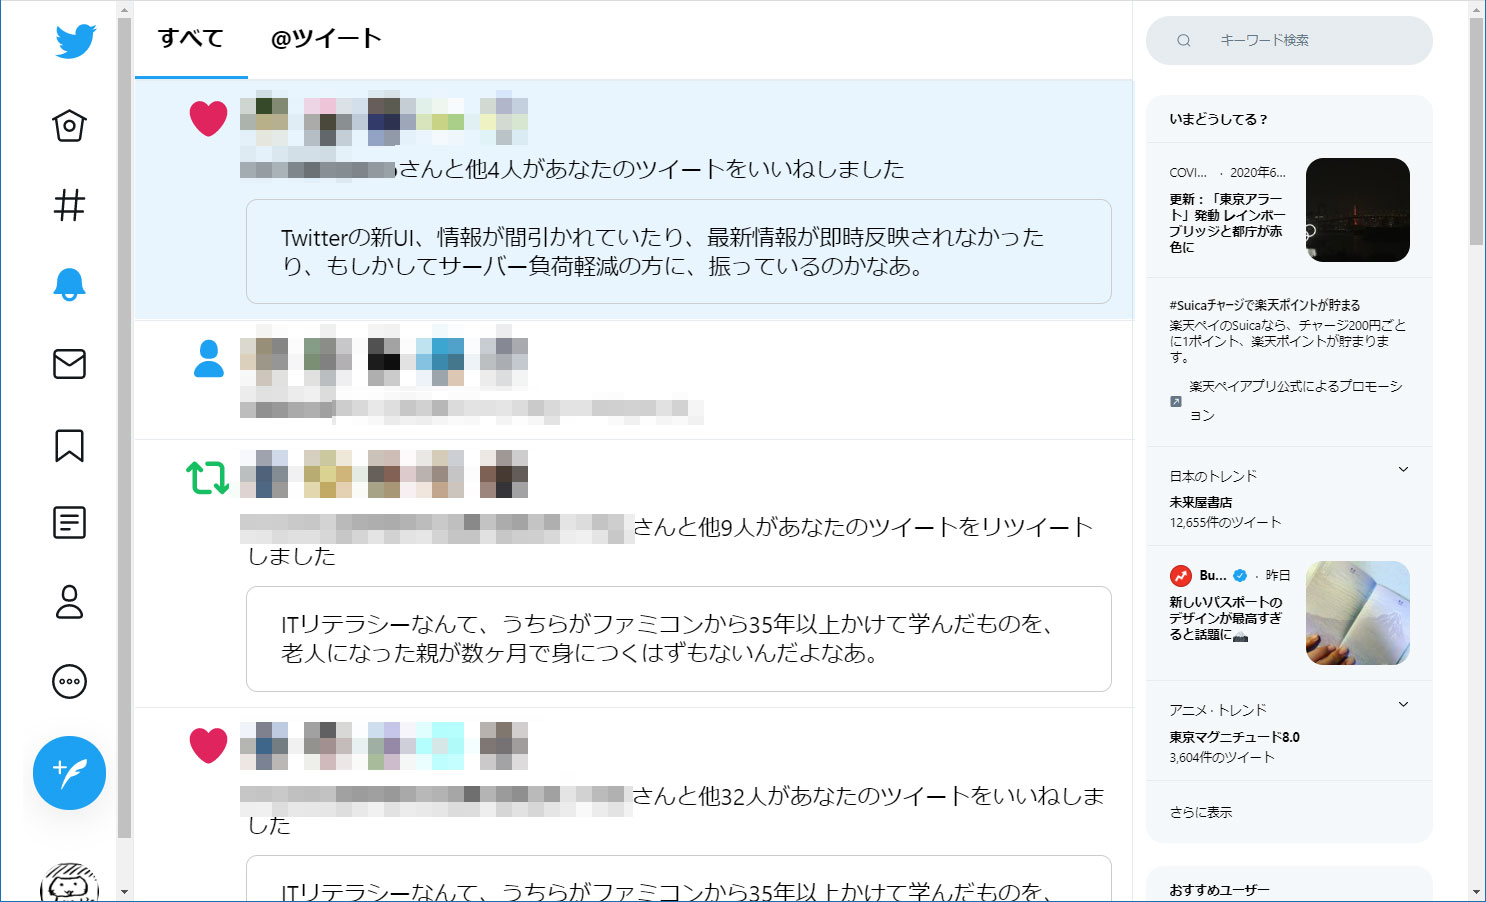
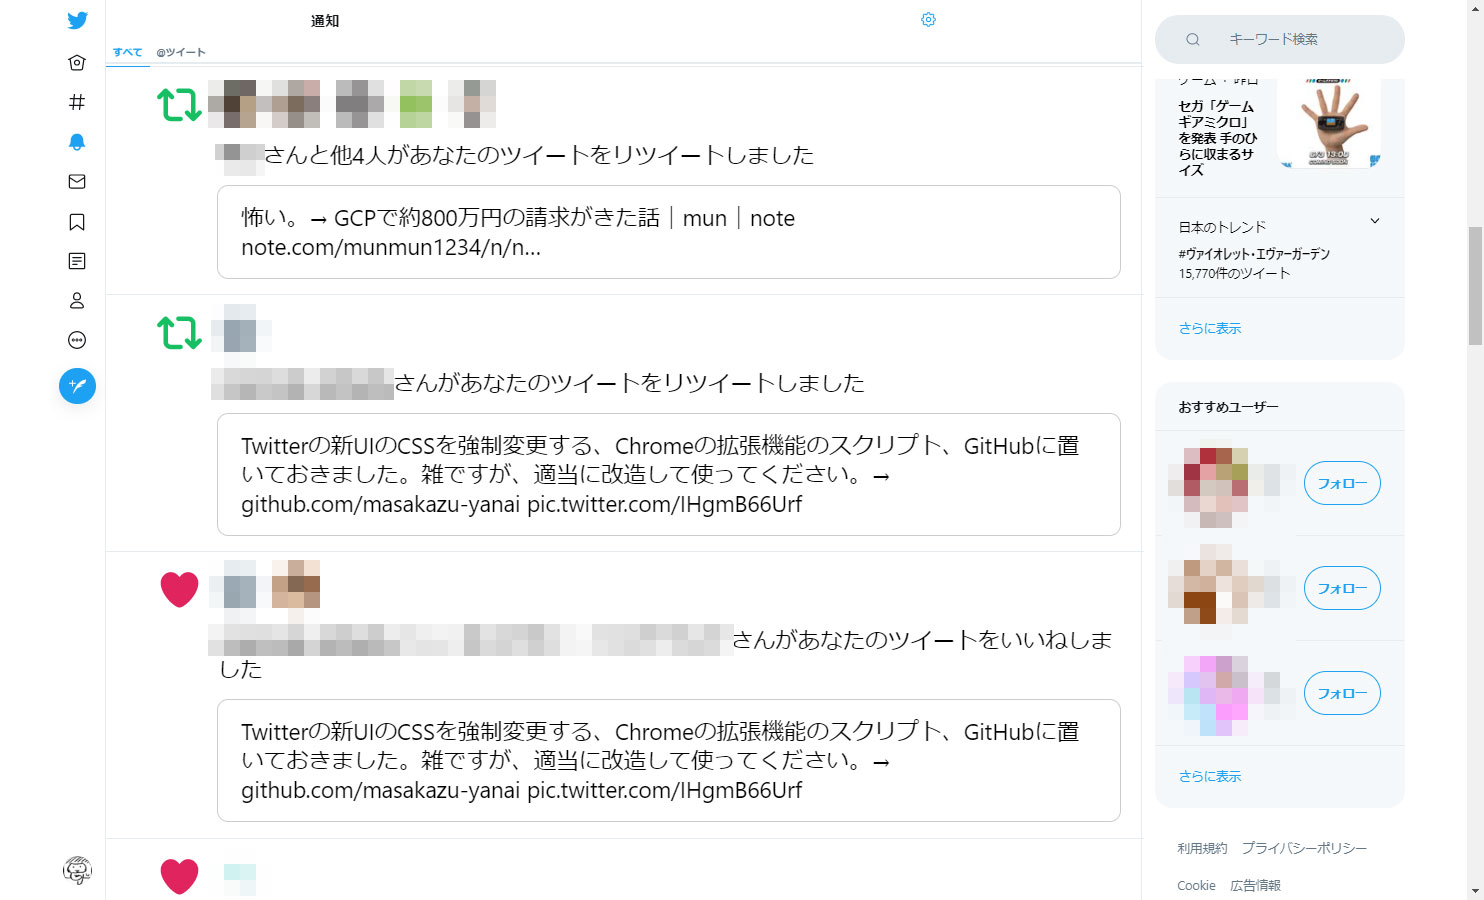
1.0.1
In the 'Notification' page, click and open url.

diff --git a/twitter/script.js b/twitter/script.js
@@ -1,5 +1,5 @@
 {
-	const fncCss = (sel, css) => {
+	const setCss = (sel, css) => {
 		document.querySelectorAll(sel).forEach(ele => {
 			if (ele.style.cssText !== '') { return }	
 			ele.style.cssText = css;
@@ -10,18 +10,40 @@
 		const url = '' + location.href;
 
 		if (url.match(RegExp('^https://twitter.com/notifications'))) {
-			fncCss(
+			// Change View.
+			setCss(
 				'.css-1dbjc4n.r-my5ep6.r-qklmqi.r-1adg3ll .r-qvutc0',
 				'color: #000 !important'
 			);
-			fncCss(
+			setCss(
 				'.css-1dbjc4n.r-my5ep6.r-qklmqi.r-1adg3ll .r-1s2bzr4',
 				'border: solid 1px #ccc !important;' +
 				'border-radius: 0.5em !important;' +
 				'padding: 0.75em 1em !important;'
 			);
+		} else
+		if (url.match(RegExp('^https://twitter.com/i/timeline'))) {
+			// Click TL item. -> Open new tab.
+			const ele = document.querySelector('time');
+			try {
+				ele.parentNode;
+			} catch(e) { return }
+			const eleP = ele.parentNode;
+			const url = 'https://twitter.com' + eleP.getAttribute('href');
+			history.back();
+
+			// Window Open
+			setTimeout(() => {
+				// Not Active (Background)
+				//const a = document.createElement('a');
+				//a.setAttribute('href', url);
+				//a.dispatchEvent(new MouseEvent('click', {ctrlKey: true}));
+
+				// Active
+				window.open(url, '_blank');
+			}, 500);
 		}
-	}, 500);
+	}, 200);
 }
 
 

diff --git a/twitter/style.css b/twitter/style.css
@@ -1,11 +1,14 @@
 /* Upper Navigation */
 .css-1dbjc4n.r-1loqt21.r-136ojw6 {
-	display: none;
+	zoom: 0.5;	/* Top */
+}
+.css-1dbjc4n.r-1awozwy.r-my5ep6.r-rull8r.r-qklmqi.r-18u37iz.r-1ninfw3 {
+	zoom: 0.3;	/* Second(Tab) */
 }
 
 /* Right Column */
 .r-1hycxz {
-	width: 230px !important;	/* -120px; */
+	width: 200px !important;	/* -150px; */
 }
 .r-1hycxz a,
 .r-1hycxz span,
@@ -16,8 +19,8 @@
 
 /* Center Column */
 .r-1ye8kvj {
-	width: 800px !important;	/* +200px; */
-	max-width: 800px !important;
+	width: 830px !important;	/* +230px; */
+	max-width: 830px !important;
 }
 
 /* Center + Right Column */
@@ -25,6 +28,8 @@
 	width: 1050px !important;
 }
 
-/*
-*/
+/* Left Column */
+header {
+	zoom: 0.5;
+}
 

diff --git a/README.md b/README.md
@@ -1,4 +1,4 @@
-tw-style
+tw-style (1.0.1)
 ==========================
 
 Twitterの新UIの表示を変更するためのChrome拡張のフォーマットです。
@@ -35,7 +35,8 @@ MIT License.
 
 * 中央カラムの幅を増加。
 * 右カラムの幅を縮小、フォント縮小。
-* 引用部分を黒文字にして囲みを追加。
-* 上部のタイルバーを削除。
+* 上部のバーを縮小。
+* 左カラムを縮小。
+* 「通知」ページの引用部分を黒文字にして囲みを追加。
 
 ![Screen Shot](ss.jpg)

diff --git a/history.md b/history.md
@@ -1,0 +1,11 @@
+# 2020-06-04 (ver 1.0.1)
+
+* 上部のナビゲーションを消すのではなく、小さく表示するように変更。
+* 「通知」ページでリストの要素をクリックすると、別ウィンドウに表示する処理を追加。
+* 左部のツール類の表示を小さくするように変更。
+
+# 2020-06-03 (ver 1.0.0)
+
+* 作成。
+* カラムのサイズをCSSで調整。
+* notificationsのページに遷移すると、自動でCSSを書き換えるようにする。
